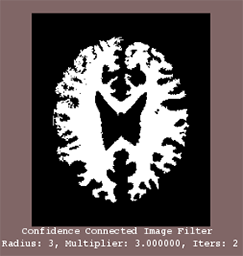
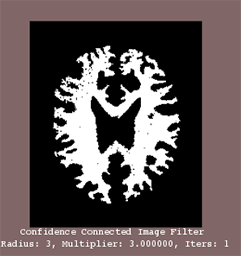
White matter fixed #26

Changed region(s): [[0.2033, 0.125, 0.7842, 0.8125], [0.0, 0.0312, 0.9876, 0.9688]]

diff --git a/script5/exercise/src/Segmentation.cpp b/script5/exercise/src/Segmentation.cpp
@@ -75,7 +75,7 @@ int main (int argc, char * argv[])
 
 	unsigned int radius = 3;
 	double multiplier = 3;
-	unsigned int iters = 2;
+	unsigned int iters = 1;
 
 	typedef itk::ConfidenceConnectedImageFilter<InputImageType, InputImageType> ConfidenceConnectedFilterType;
 	ConfidenceConnectedFilterType::Pointer confidenceConnected = ConfidenceConnectedFilterType::New();

diff --git a/docs/script5.md b/docs/script5.md
@@ -96,7 +96,7 @@ Al segmentar esta parte se debe notar más el pre-filtrado de la imagen pues no 
 * Seed: 60, 125 
 * Radius: 3
 * Multiplier: 3
-* Iters: 2 (a partir de la tercera iteración empieza a segmentar zonas que no forman parte del plexo coroideo)
+* Iters: 1
 
 ##### Sin filtro
 
